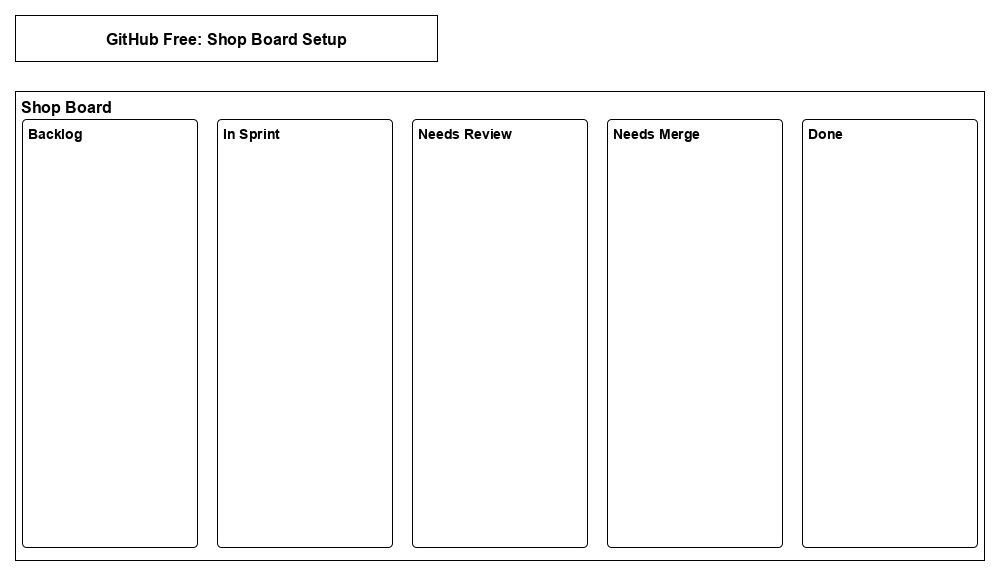
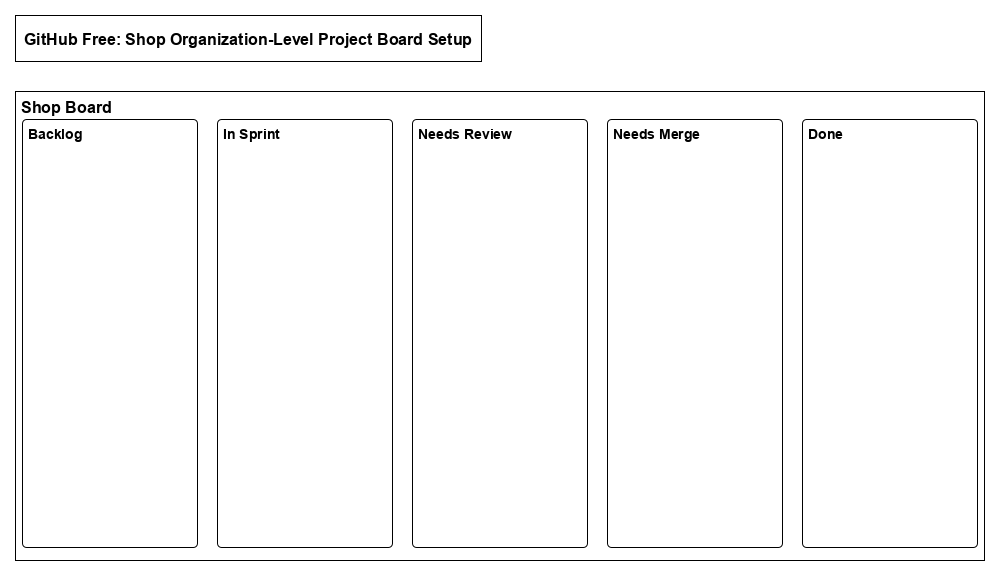
Revised GitHub documentation and diagrams according to review comments

Changed region(s): [[0.031, 0.0591, 0.4965, 0.0887]]

diff --git a/docs/dev/shop-setup/GitHub_Free.md b/docs/dev/shop-setup/GitHub_Free.md
@@ -1,24 +1,25 @@
-# GitHub Free Shop Setup:
+# GitHub Free:
 
-### Setting up the organization and user permissions:
+This document is a guide for shop managers on setting up a new shop organization on GitHub that will be contributing to a LFP project
 
-![GitHub Free Permissions Diagram](https://raw.githubusercontent.com/LibreFoodPantry/ProjectTemplate/shop_setup_documentation/docs/dev/shop-setup/diagrams/GitHub_Free_Setup_Users_And_Permissions.png)
+## Setting up the shop's GitHub organization:
 
 
-#### Shop Manager:
+### Shop Manager:
 
 1. Create a new GitHub organization for the shop
 
-2. Add the shop developers to the organization with member permissions
+## Setting up the shop's organization-level project board:
 
-### Setting up the shop project board:
+
+### Shop organization-level project board diagram:
 
 ![GitHub Shop Board Diagram](https://raw.githubusercontent.com/LibreFoodPantry/ProjectTemplate/shop_setup_documentation/docs/dev/shop-setup/diagrams/GitHub_Setup_Shop_Board.png)
 
 
-#### Shop Manager:
+### Shop Manager:
 
-1. Create a new shop-level project board
+1. Create a new shop organization-level project board to coordinate work across the shop
 
 2. Add the appropriate columns to the shop board by clicking "Add column" in this order (in order on the board from left to right):
 
@@ -28,18 +29,34 @@
     4. Needs Merge
     5. Done
 
-### Setting up the repository:
+-Note these columns are our recommendations from our preferred workflow, they can be changed to better suit your shop's workflow  
 
+## Setting up the repository:
+
+
+### GitHub organizations & respositories diagram:
 ![GitHub Organizations and Repositories Diagram](https://raw.githubusercontent.com/LibreFoodPantry/ProjectTemplate/shop_setup_documentation/docs/dev/shop-setup/diagrams/GitHub_Free_Organizations_And_Repositories.png)
 
-#### Shop Manager:
+### Shop Manager:
 
-1. Fork the repository you will be working on from the LibreFoodPantry organization to the shop 
+1. Fork the repository you will be working on from the LibreFoodPantry organization to the shop organization
+
+
+## Setting up the shop's user permissions:
+
+
+### Users & permissions diagram:
+
+![GitHub Free Permissions Diagram](https://raw.githubusercontent.com/LibreFoodPantry/ProjectTemplate/shop_setup_documentation/docs/dev/shop-setup/diagrams/GitHub_Free_Setup_Users_And_Permissions.png)
+
+### Shop Manager:
+
+1. Add the shop developers to the shop organization with member permissions
 
 2. Add the shop developers to the forked repository as contributors with write permissions
 
 ---
-Copyright (c) <YEAR> The LibreFoodPantry Developers.
+Copyright (c) 2019 The LibreFoodPantry Developers.
 Permission is granted to copy, distribute and/or modify this document
 under the terms of the GNU Free Documentation License, Version 1.3
 or any later version published by the Free Software Foundation;
